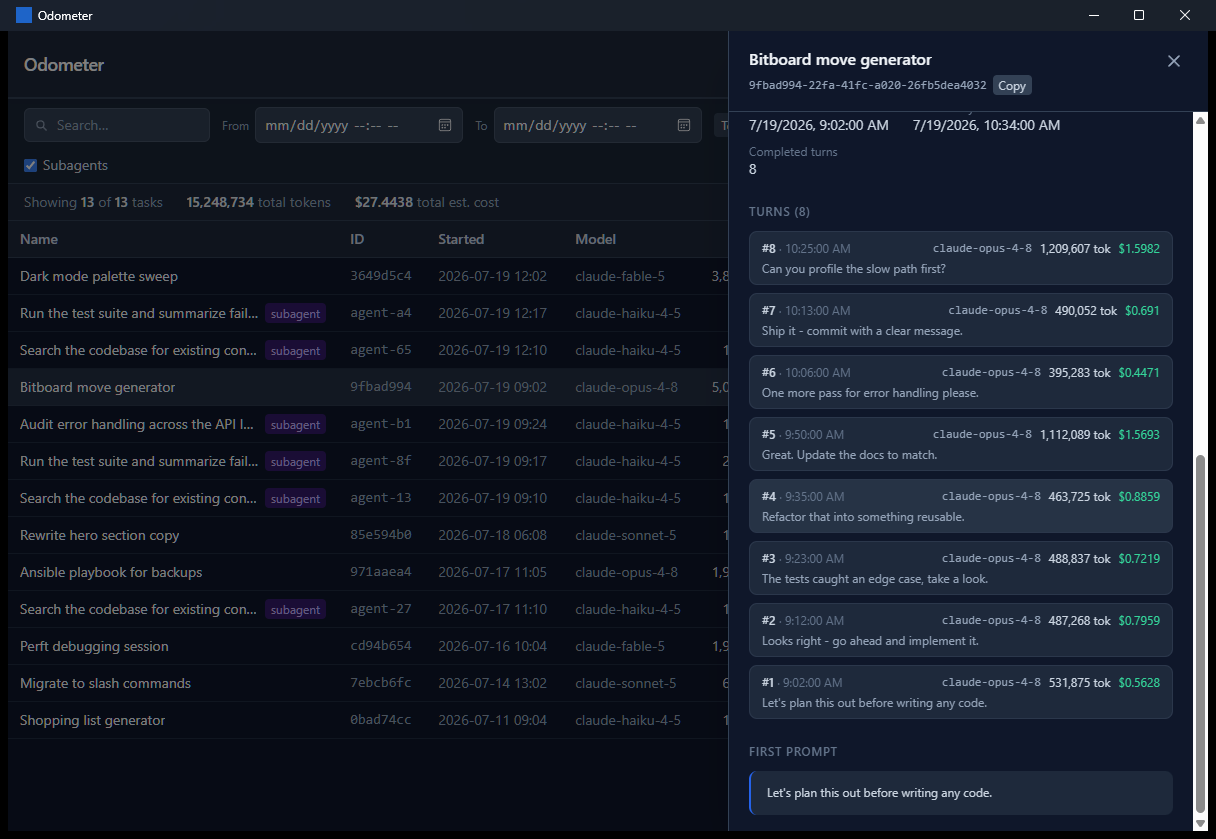
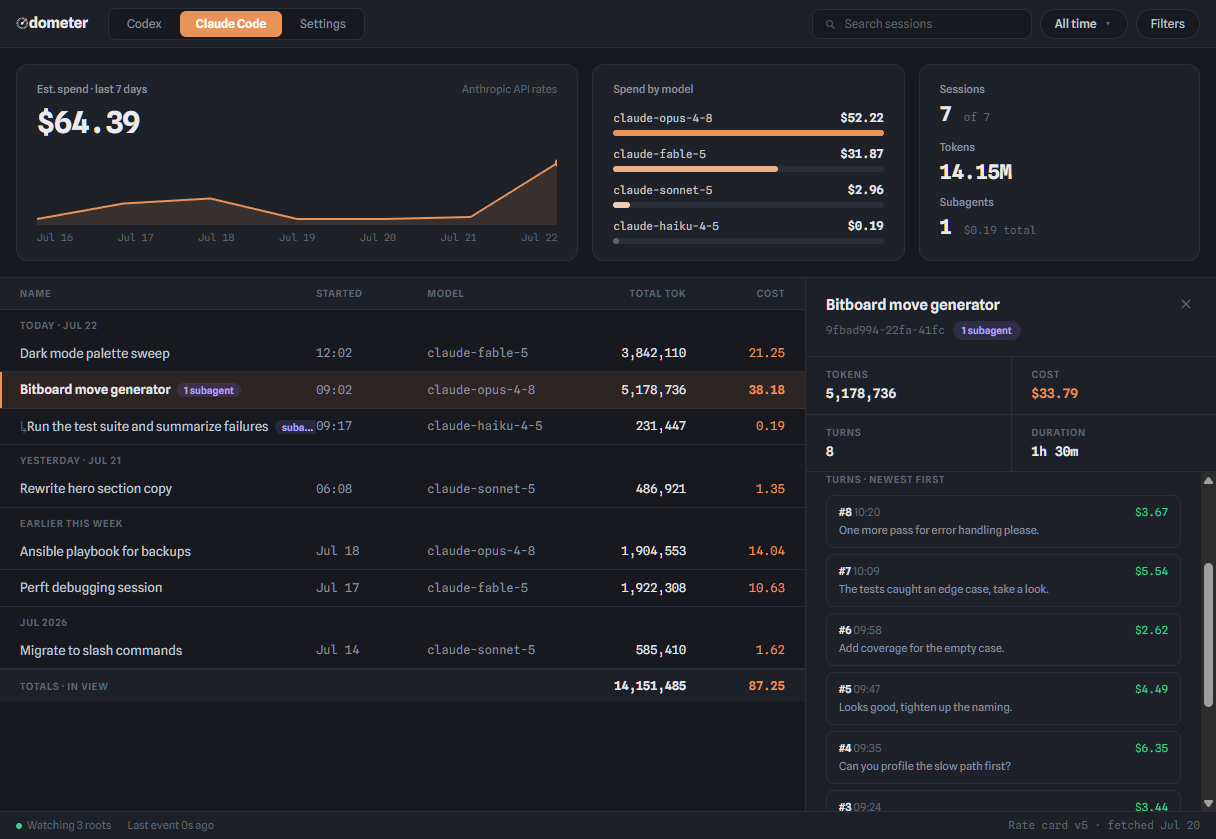
Refresh README for the redesign; authenticate Codecov via OIDC
New screenshots of the Instrument Ledger UI (including the dark theme),
README wording updated for the detail pane and update-check cadence, and
the Codecov upload switched from tokenless (now rejected for pushes) to
GitHub OIDC so the coverage badge reports again.

diff --git a/README.md b/README.md
@@ -7,9 +7,9 @@
 [![License: MIT](https://img.shields.io/badge/license-MIT-blue.svg)](LICENSE)
 ![Platforms](https://img.shields.io/badge/platform-Windows%20%7C%20macOS%20%7C%20Linux-lightgrey)
 
-**How far have your AI agents driven?** Odometer is a local desktop dashboard for your AI coding-agent usage. It reads the session files that [Codex](https://openai.com/codex) (the ChatGPT desktop app) and [Claude Code](https://claude.com/claude-code) already write to your machine and turns them into a searchable, sortable view of every session: what you asked, which models ran, how many tokens they consumed, and what that usage costs.
+**How far have your AI agents driven?** Odometer is a local desktop dashboard for your AI coding-agent usage. It reads the session files that [Codex](https://openai.com/codex) (OpenAI's coding agent) and [Claude Code](https://claude.com/claude-code) already write to your machine and turns them into a searchable, sortable view of every session: what you asked, which models ran, how many tokens they consumed, and what that usage costs.
 
-![Codex tab showing sessions, token totals, credits, and estimated API cost](docs/screenshots/codex-tab.png)
+![Codex tab with the session list, cost overview, and a session open in the detail pane](docs/screenshots/codex-tab.png)
 
 Everything happens on your machine. Odometer never uploads, phones home, or sends your prompts anywhere — it only reads the local files your agents already produced (and checks GitHub for its own updates).
 
@@ -22,9 +22,10 @@ Everything happens on your machine. Odometer never uploads, phones home, or send
 - **Subagents included** — background agents spawned by your sessions appear as their own badged, filterable entries linked to their parent.
 - **Live** — sessions update in the list while your agents are still running.
 - **Time-scoped answers** — filter by date range and the token/cost columns re-total to exactly that window ("what did I burn last week?").
+- **Light and dark** — follows your OS theme by default; switchable in Settings.
 
-![Claude Code tab with subagent sessions](docs/screenshots/claude-code-tab.png)
-![Session detail drawer with per-turn tokens and costs](docs/screenshots/session-details.png)
+![Claude Code tab with subagent sessions and per-model spend](docs/screenshots/claude-code-tab.png)
+![Session detail pane in dark mode showing per-turn costs and the turn history](docs/screenshots/session-details.png)
 
 ## Install
 
@@ -36,7 +37,7 @@ Download the installer for your platform from the [latest release](https://githu
 | macOS (Apple Silicon) | `.dmg` | Not notarized yet; right-click the app → Open on first launch. |
 | Linux | `.AppImage` (no install) or `.deb` / `.rpm` | Mark the AppImage executable, then run it. |
 
-Odometer checks for new releases when it starts and offers a one-click in-place update.
+Odometer checks for new releases on launch (and periodically while running) and offers a one-click in-place update.
 
 ### First run
 